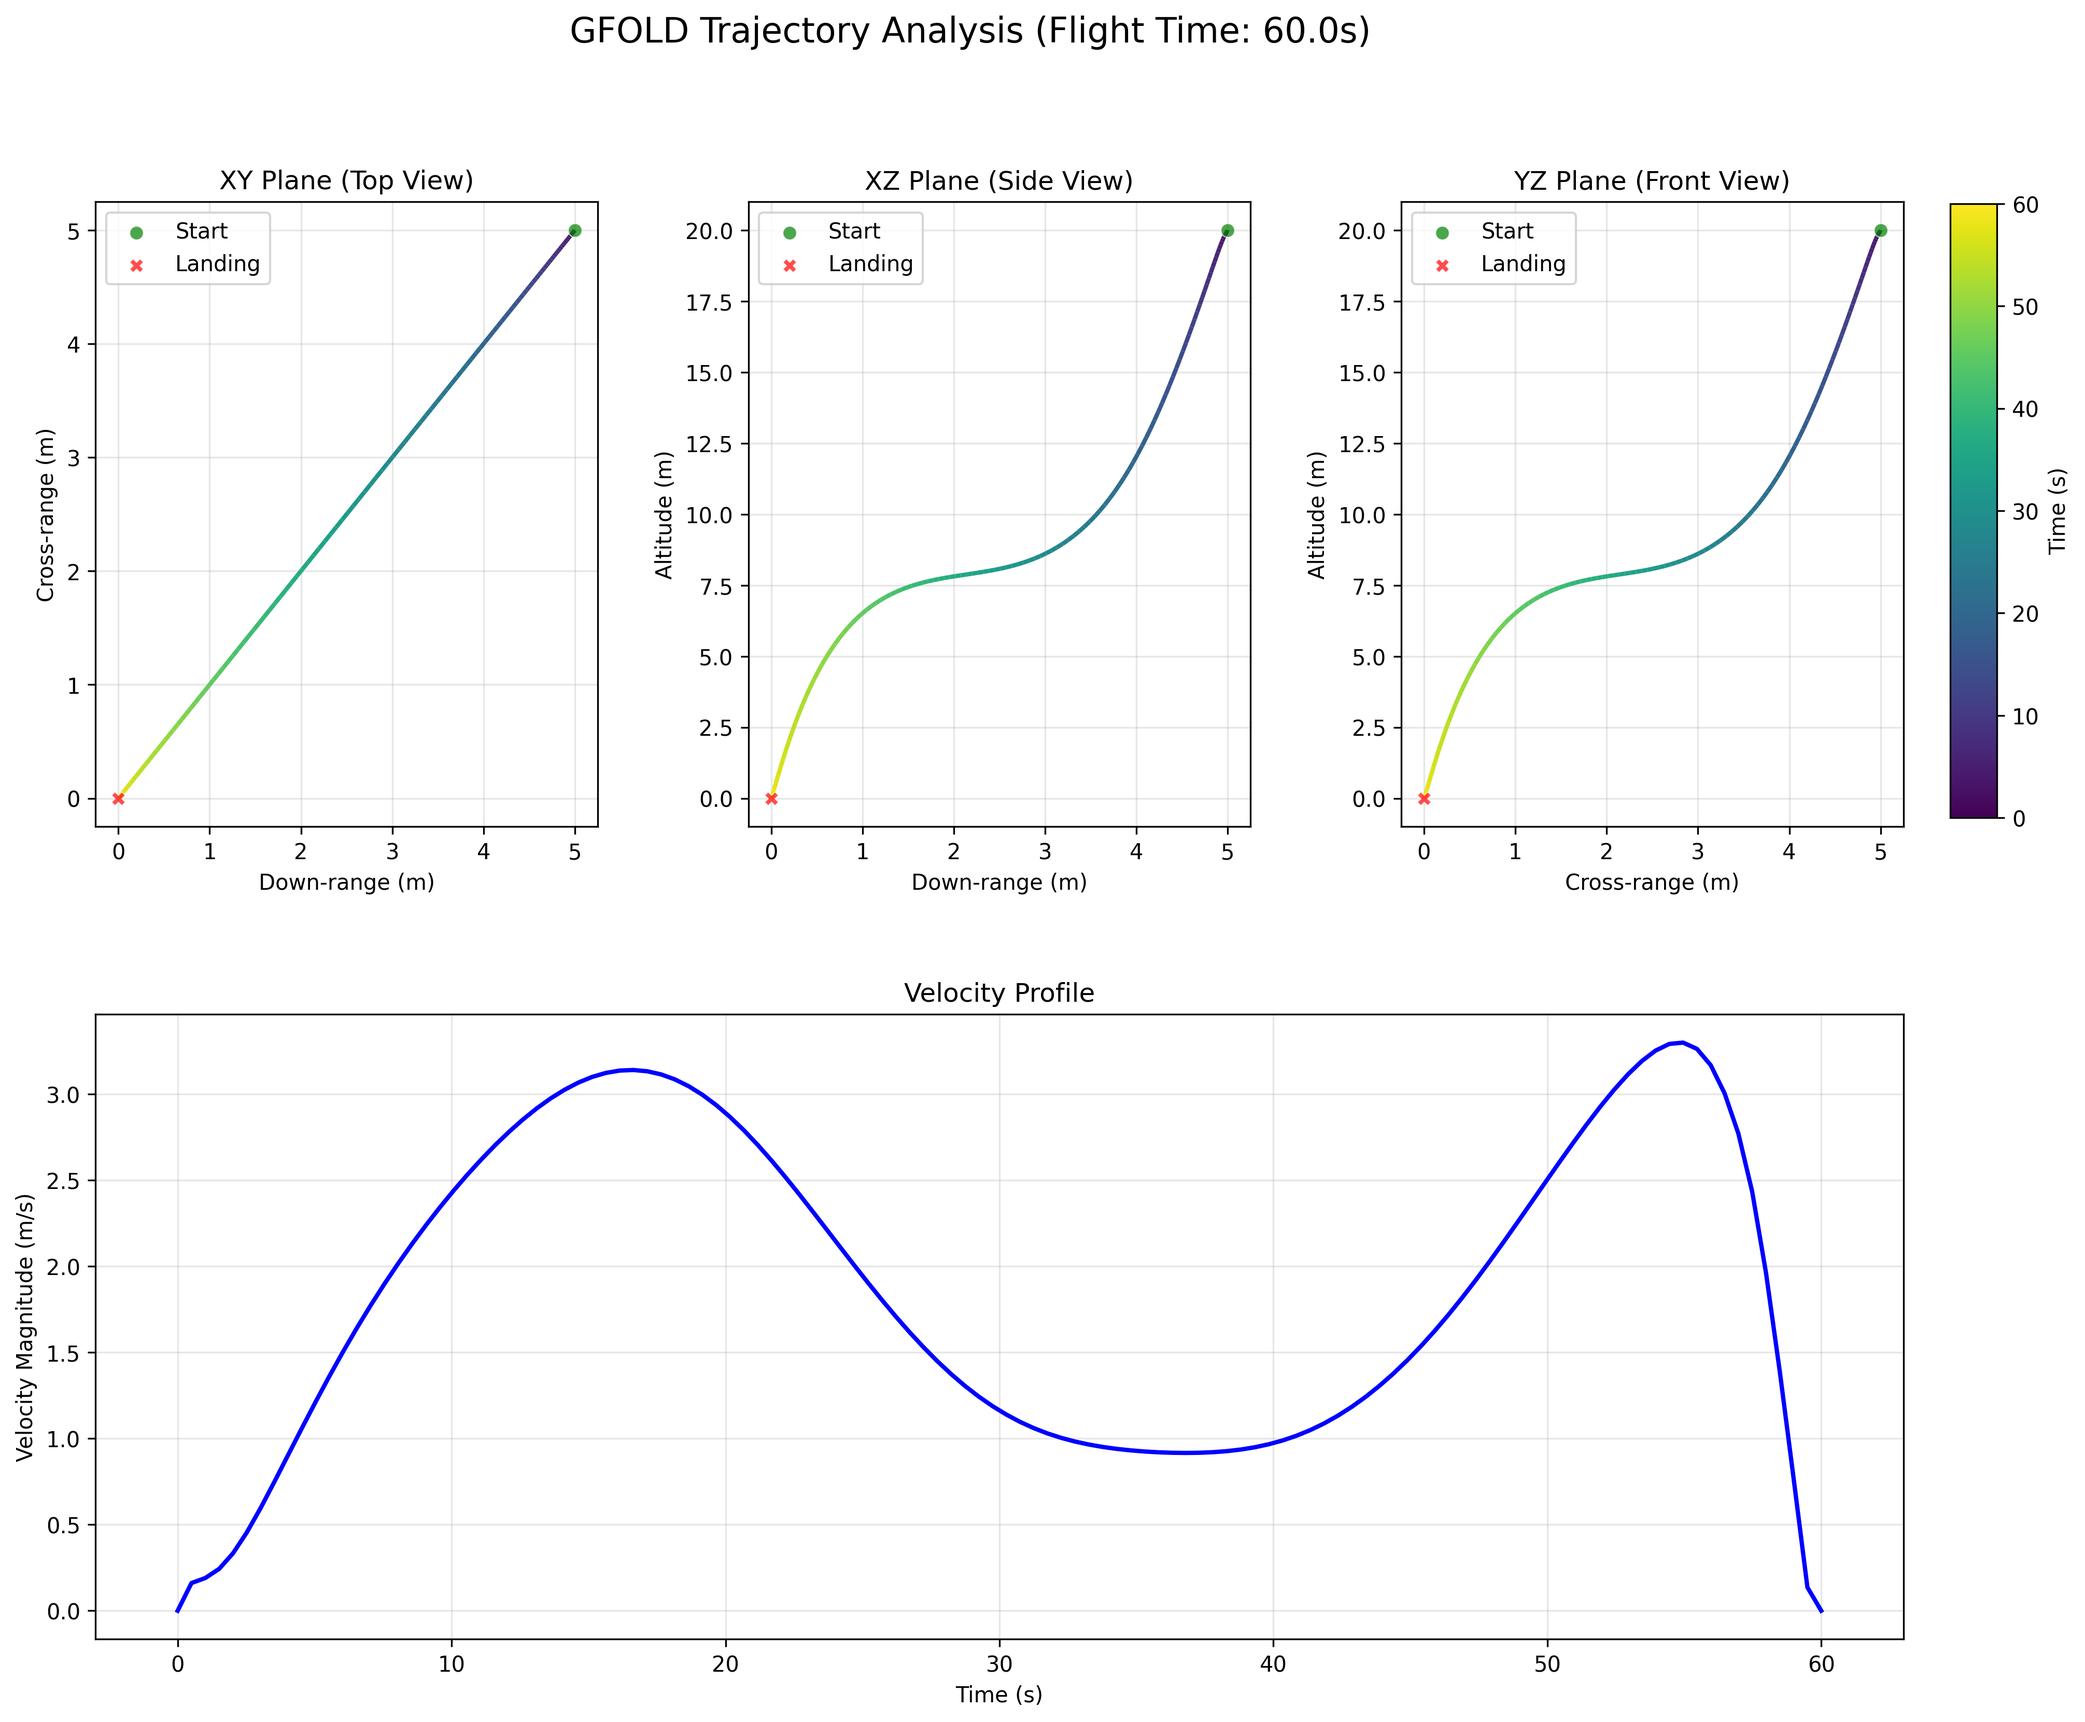
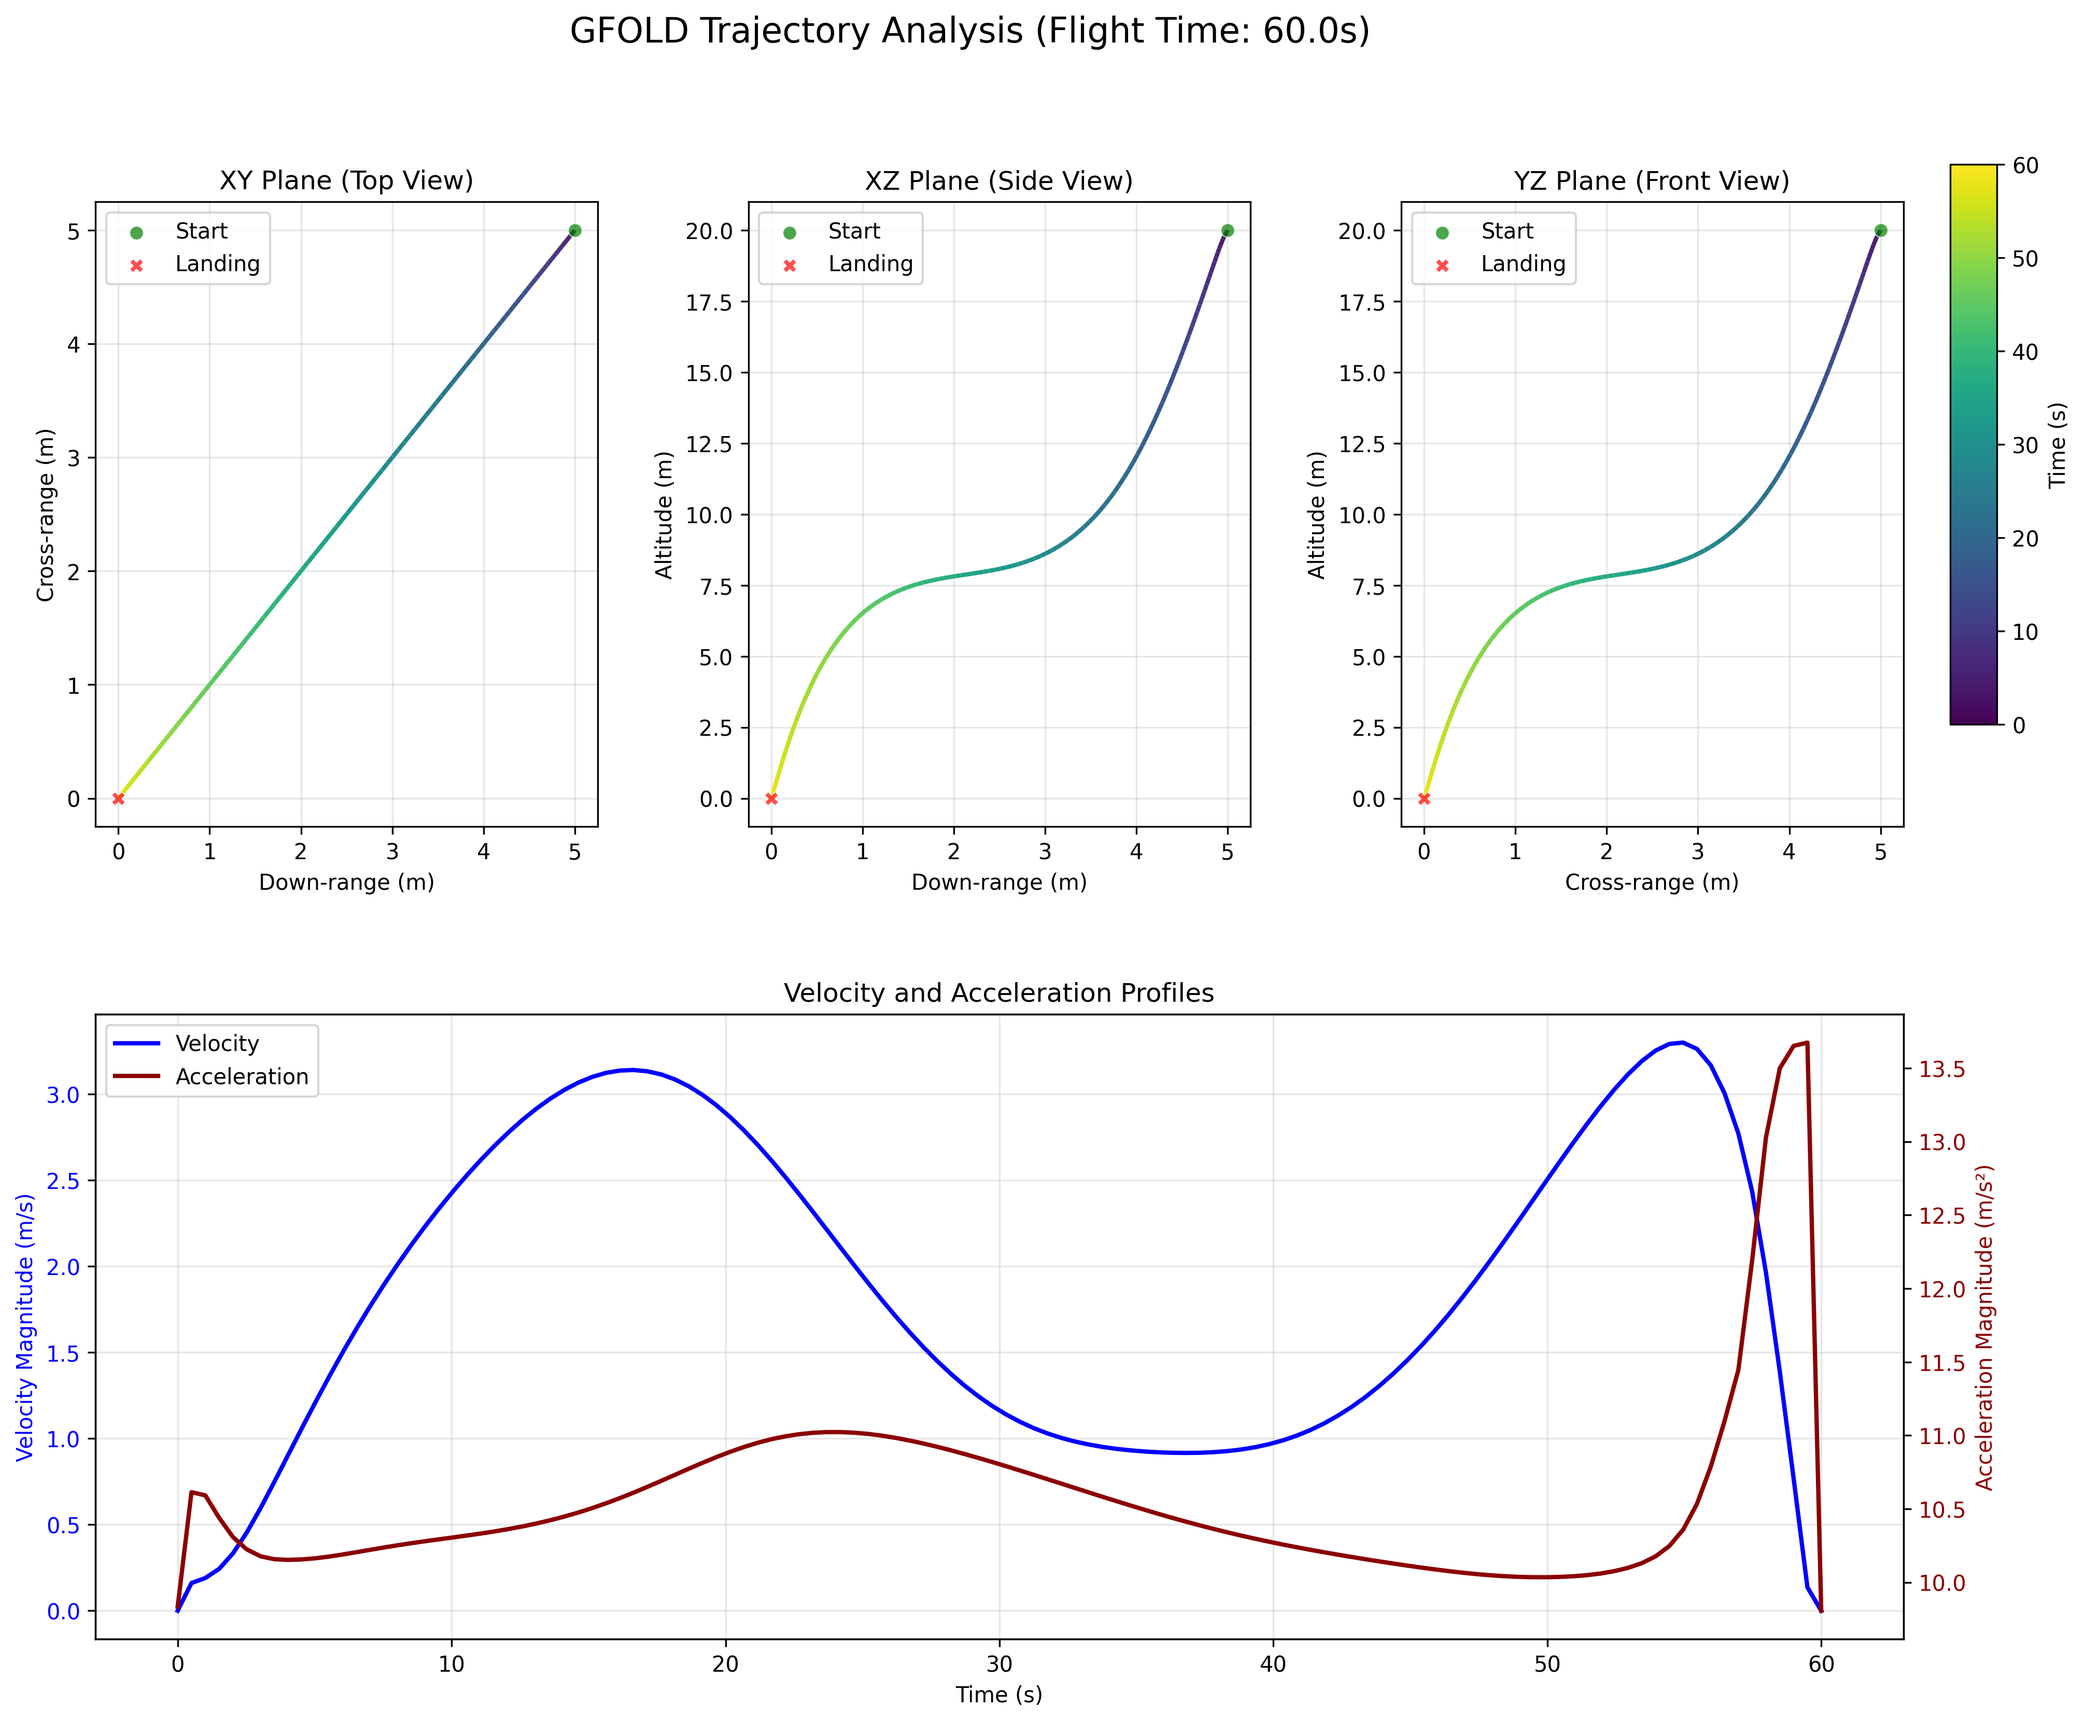
plotting enhancement

diff --git a/src/Trajectory_Generator/plotting.py b/src/Trajectory_Generator/plotting.py
@@ -254,22 +254,61 @@ class TrajectoryPlotter:
                                    'Cross-range (m)', 'Altitude (m)',
                                    'YZ Plane (Front View)')
 
-        # Velocity magnitude plot
+        # Combined velocity and acceleration magnitude plot
         ax4 = fig.add_subplot(gs[1, :])
+
+        # Calculate velocity magnitude
         vel_mag = np.sqrt(x[3, :]**2 + x[4, :]**2 + x[5, :]**2)
-        ax4.plot(t, vel_mag, linewidth=2,
-                 color='orange' if dark_theme else 'blue')
+
+        # Plot velocity magnitude on primary y-axis
+        line1 = ax4.plot(t, vel_mag, linewidth=2,
+                         color='orange' if dark_theme else 'blue',
+                         label='Velocity')
         ax4.set_xlabel('Time (s)')
-        ax4.set_ylabel('Velocity Magnitude (m/s)')
-        ax4.set_title('Velocity Profile')
+        ax4.set_ylabel('Velocity Magnitude (m/s)',
+                       color='orange' if dark_theme else 'blue')
+        ax4.tick_params(
+            axis='y', labelcolor='orange' if dark_theme else 'blue')
+
+        # Create secondary y-axis for acceleration
+        ax4_acc = ax4.twinx()
+
+        if u is not None:
+            # Calculate total acceleration magnitude (thrust + gravity)
+            g_vec = np.array([0, 0, -9.80665])  # Gravity vector
+            # Add gravity to thrust acceleration
+            acc_total = u + g_vec.reshape(-1, 1)
+            acc_mag = np.sqrt(acc_total[0, :]**2 +
+                              acc_total[1, :]**2 + acc_total[2, :]**2)
+
+            line2 = ax4_acc.plot(t, acc_mag, linewidth=2,
+                                 color='red' if dark_theme else 'darkred',
+                                 label='Acceleration')
+            ax4_acc.set_ylabel('Acceleration Magnitude (m/s²)',
+                               color='red' if dark_theme else 'darkred')
+            ax4_acc.tick_params(
+                axis='y', labelcolor='red' if dark_theme else 'darkred')
+        else:
+            # If no control data, show zero acceleration
+            line2 = ax4_acc.plot(t, np.zeros_like(t), linewidth=2, color='gray',
+                                 label='Acceleration (No Data)')
+            ax4_acc.set_ylabel('Acceleration Magnitude (m/s²)', color='gray')
+            ax4_acc.tick_params(axis='y', labelcolor='gray')
+
+        # Add legend for both lines
+        lines = line1 + line2
+        labels = [l.get_label() for l in lines]
+        ax4.legend(lines, labels, loc='upper left')
+
+        ax4.set_title('Velocity and Acceleration Profiles')
         ax4.grid(True, alpha=0.3)
 
         # Add overall title
         title = f'GFOLD Trajectory Analysis (Flight Time: {tf:.1f}s)'
         fig.suptitle(title, fontsize=16)
 
-        # Add shared colorbar with smaller height
-        cax = fig.add_axes([0.92, 0.55, 0.02, 0.329])
+        # Add shared colorbar positioned for the top row of subplots
+        cax = fig.add_axes([0.92, 0.6, 0.02, 0.3])
         sm = cm.ScalarMappable(norm=norm, cmap=cmap)
         sm.set_array(t)
         cbar = fig.colorbar(sm, cax=cax)
